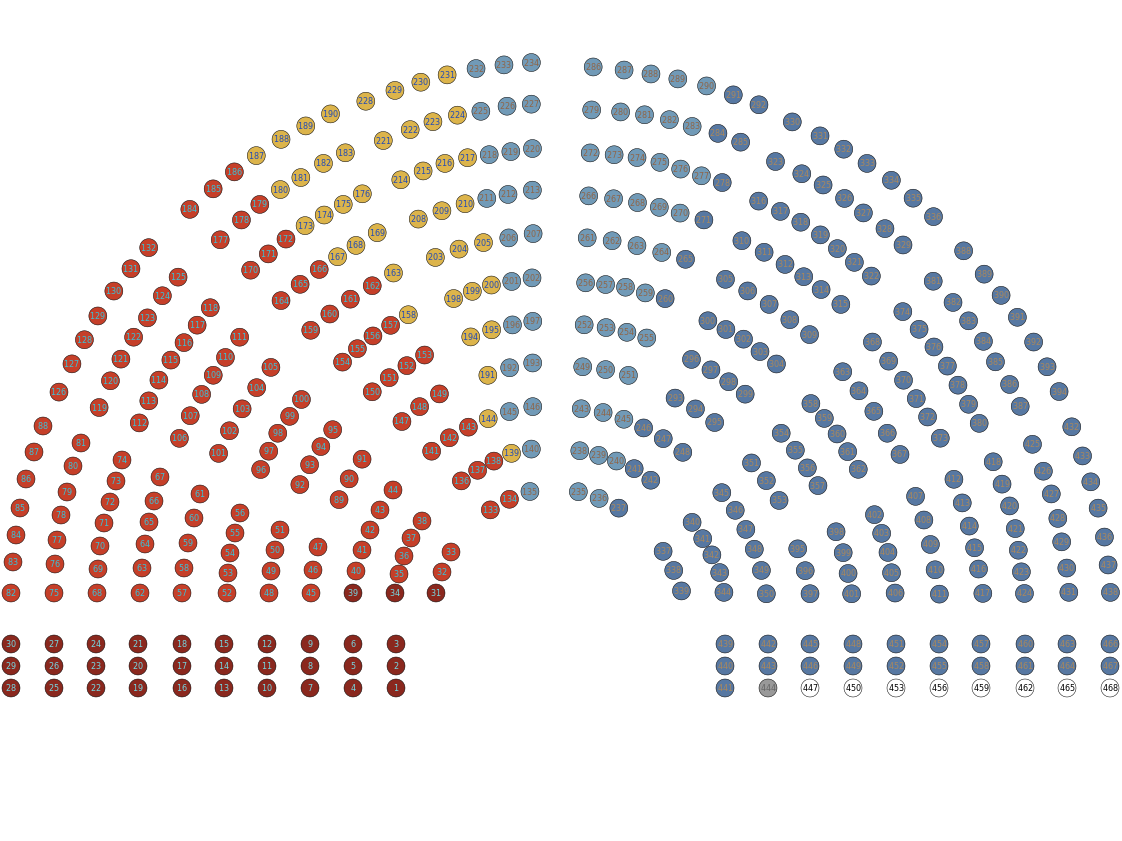
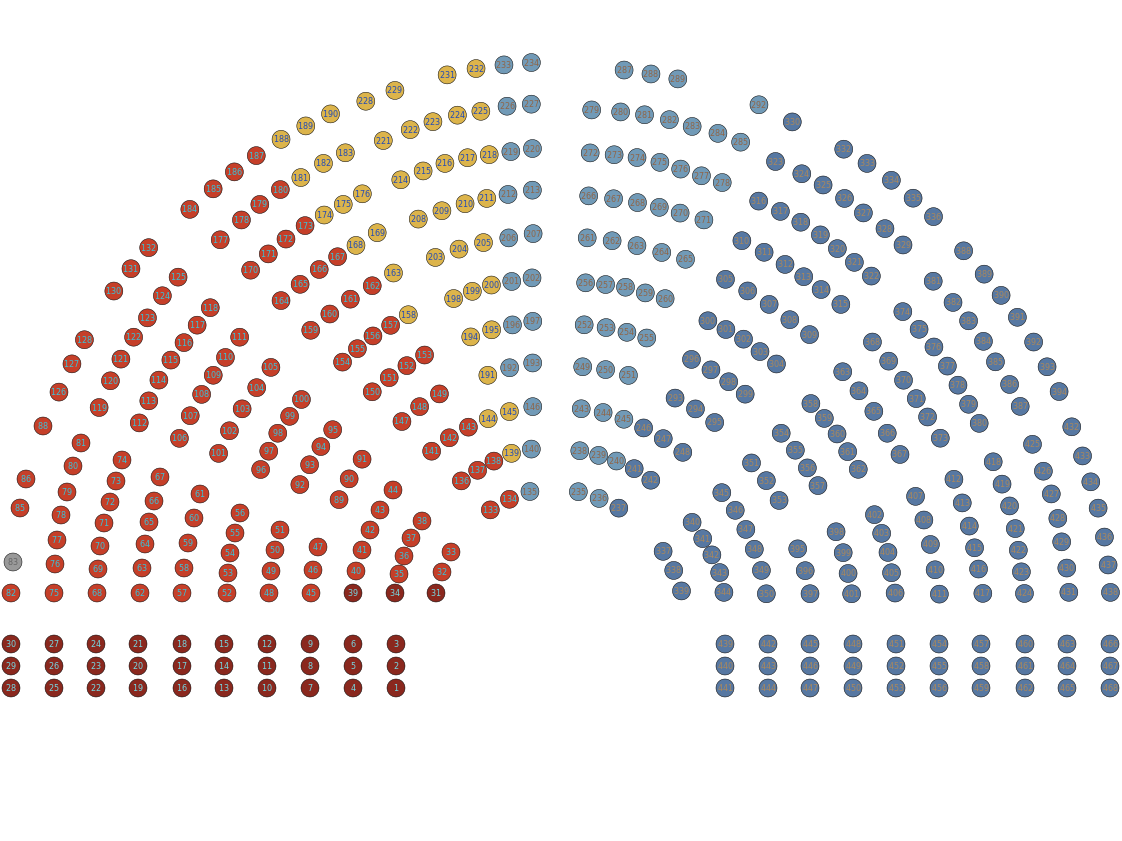
Random spread and avoid printing empty seats

diff --git a/pyrlament/generator.py b/pyrlament/generator.py
@@ -148,16 +148,19 @@ class SeatsGenerator:
         (1110, 638, 501),
     ]
 
-    _seats_order = []
+    seats_order = []
 
     seats: List[Seat]
     parties: List[Party]
     logotype: Optional[str] = None
     legend: bool = False
 
-    def __init__(self, parties: List[Party], logotype: Optional[str] = None):
+    _skip_empty_seats = True
+
+    def __init__(self, parties: List[Party], logotype: Optional[str] = None, skip_empty_seats: bool = True):
         self.parties = parties
         # self.logotype = logotype
+        self._skip_empty_seats = skip_empty_seats
         self._multiply_center_sectors()
         self._generate_seats_order()
         seats = self._left_sector + self._center_sector + self._right_sector
@@ -177,7 +180,7 @@ class SeatsGenerator:
             new_row = []
             for nr in row:
                 new_row.append(nr + offset)
-            self._seats_order.append(new_row)
+            self.seats_order.append(new_row)
 
     def _generate_seats_order_c(self, offset: int = 0):
         sequence = [
@@ -200,16 +203,33 @@ class SeatsGenerator:
             new_row = []
             for nr in row:
                 new_row.append(nr + offset)
-            self._seats_order.append(new_row)
+            self.seats_order.append(new_row)
+
+    def _move_random_seats_to_end(self, seats_to_move: int = 9):
+        seats_moved = []
+        rows_modified = []
+        while len(seats_moved) < seats_to_move:
+            for row_nr in range(len(self.seats_order)):
+                if row_nr > 2 and row_nr < 59:
+                    dice = random.randint(1, 9)
+                    if dice == 1 and row_nr not in rows_modified:
+                        row = self.seats_order[row_nr]
+                        seats_moved.append(row[-1])
+                        self.seats_order[row_nr] = row[:-1]
+                        rows_modified.append(row_nr)
+                if len(seats_moved) >= seats_to_move:
+                    break
+        self.seats_order.append(seats_moved)
 
     def _generate_seats_order(self):
-        self._seats_order = []
+        self.seats_order = []
         self._generate_seats_order_l()
         self._generate_seats_order_c()
         self._generate_seats_order_c(102)
         self._generate_seats_order_c(204)
         self._generate_seats_order_c(306)
         self._generate_seats_order_l(438)
+        self._move_random_seats_to_end()
 
     @staticmethod
     def _sseq(start, stop, step=1):
@@ -266,7 +286,7 @@ class SeatsGenerator:
 
     def _get_seat_by_sequence(self, seat_nr: int) -> int:
         cnt = 0
-        for row in self._seats_order:
+        for row in self.seats_order:
             for real_seat_nr in row:
                 if seat_nr == cnt:
                     return real_seat_nr-1
@@ -282,12 +302,11 @@ class SeatsGenerator:
             seat = self.seats[real_y]
             self._set_seat_color(seat, seat_map[y])
 
-
     def colorize_by_sequence(self):
         color = None
         new_color = None
         cnt = 0
-        for seats_row in self._seats_order:
+        for seats_row in self.seats_order:
             while new_color == color:
                 new_color = random.choice(PYRLAMENT_PROPERTIES.COLORS)
             color = new_color
@@ -306,19 +325,20 @@ class SeatsGenerator:
         svg = drawsvg.Drawing(1122, 841, overflow="hidden")
         g = drawsvg.Group(transform="translate(0 50)")
         for seat in self.seats:
-            circle = drawsvg.Circle(seat.cx, seat.cy, 9, fill=seat.fill, stroke="black", stroke_width="0.5")
-            seat_number = drawsvg.Text(
-                f"{seat.number}",
-                8,
-                seat.cx,
-                seat.cy,
-                center=0.6,
-                fill=seat.color,
-                text_anchor="middle",
-                font_family="sans-serif",
-            )
-            g.append(circle)
-            g.append(seat_number)
+            if not self._skip_empty_seats or (self._skip_empty_seats and seat.fill != '#ffffff'):
+                circle = drawsvg.Circle(seat.cx, seat.cy, 9, fill=seat.fill, stroke="black", stroke_width="0.5")
+                seat_number = drawsvg.Text(
+                    f"{seat.number}",
+                    8,
+                    seat.cx,
+                    seat.cy,
+                    center=0.6,
+                    fill=seat.color,
+                    text_anchor="middle",
+                    font_family="sans-serif",
+                )
+                g.append(circle)
+                g.append(seat_number)
         svg.append(g)
 
         if self.logotype:
